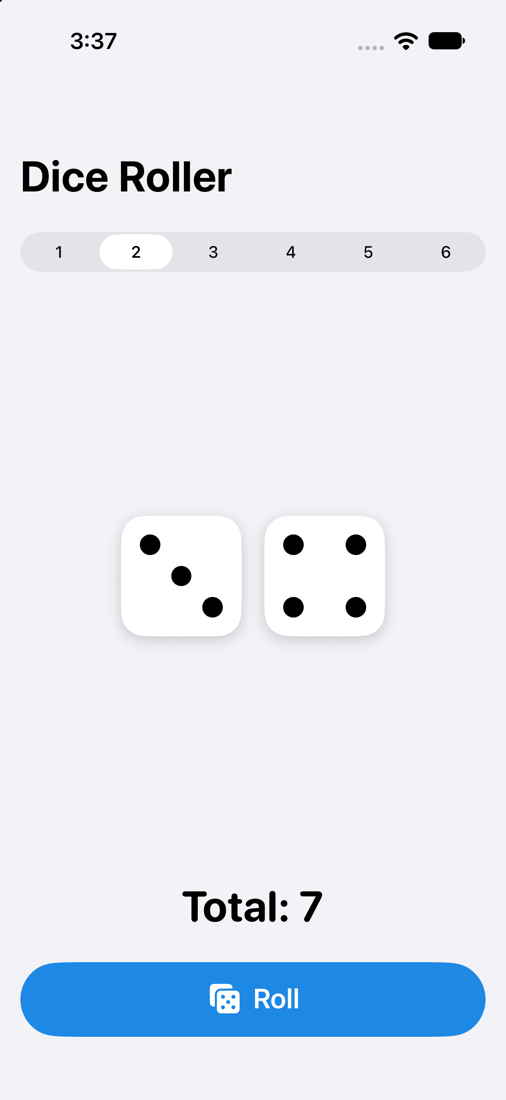
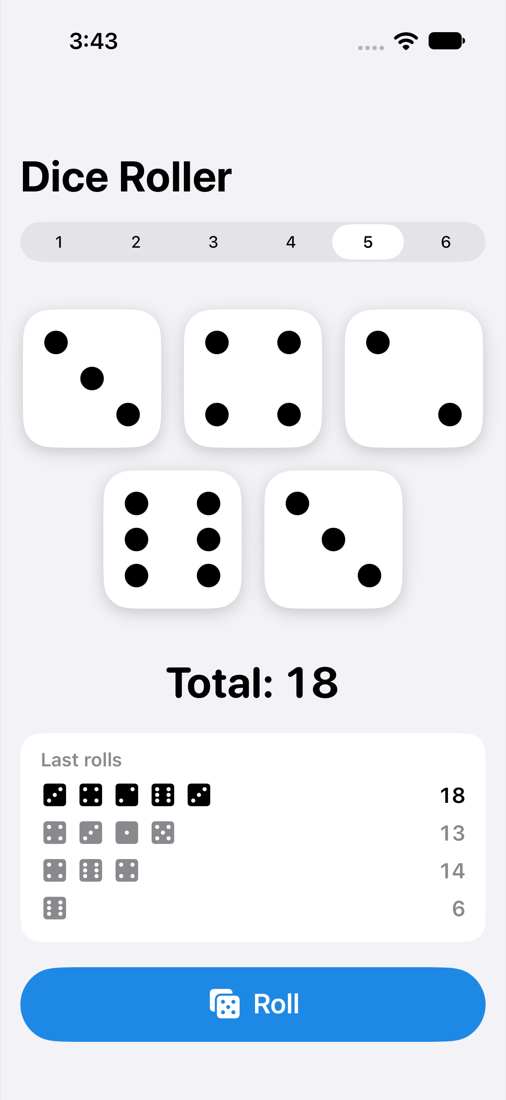
Fix the jumping Roll button and tidy the layout
- The Roll button now stays in one place at the bottom. Before, it moved up the screen each time a roll was added to the history.
- Four dice sit as two and two, and five as three over two, centered. Before, the last row hung off to the left.
- The last rolls show as small dice in a card that never changes size.
- The dice shrink to fit small screens and large text sizes.
- The app starts on random dice and now has an app icon.
- iPhone only, with a tap of feedback on each roll.

diff --git a/DiceRoller/ContentView.swift b/DiceRoller/ContentView.swift
@@ -1,6 +1,6 @@
 import SwiftUI
 
-/// One finished roll, kept for the history list.
+/// One finished roll, kept for the history card.
 struct Roll: Identifiable {
     let id = UUID()
     let dice: [Int]
@@ -8,36 +8,35 @@ struct Roll: Identifiable {
 }
 
 struct ContentView: View {
+    /// How many past rolls the history card shows. The card always keeps room for this many
+    /// rows, so nothing on the screen moves when a roll comes in.
+    private static let historyRows = 4
+
     @State private var diceCount = 2
-    @State private var dice = [3, 4]
+    @State private var dice = ContentView.randomDice(2)
     @State private var history: [Roll] = []
     @State private var spin = 0.0
-
-    /// Up to three dice per row, centered.
-    private var columns: [GridItem] {
-        Array(repeating: GridItem(.fixed(96), spacing: 18), count: min(dice.count, 3))
-    }
+    @State private var rollsMade = 0
+    @Environment(\.accessibilityReduceMotion) private var reduceMotion
 
     var body: some View {
         NavigationStack {
-            VStack(spacing: 24) {
+            VStack(spacing: 20) {
                 Picker("Number of dice", selection: $diceCount) {
                     ForEach(1...6, id: \.self) { Text("\($0)").tag($0) }
                 }
                 .pickerStyle(.segmented)
                 .onChange(of: diceCount) { _, _ in roll() }
 
-                LazyVGrid(columns: columns, spacing: 18) {
-                    ForEach(dice.indices, id: \.self) { index in
-                        DieView(value: dice[index])
-                            .rotationEffect(.degrees(spin))
-                    }
-                }
-                .frame(maxHeight: .infinity)
+                DiceBoard(dice: dice, spin: spin)
+                    .frame(maxWidth: .infinity, maxHeight: .infinity)
 
                 Text("Total: \(dice.reduce(0, +))")
-                    .font(.system(size: 34, weight: .bold, design: .rounded))
+                    .font(.system(.largeTitle, design: .rounded, weight: .bold))
+                    .monospacedDigit()
                     .contentTransition(.numericText())
+
+                HistoryCard(history: history, rows: Self.historyRows)
 
                 Button(action: roll) {
                     Label("Roll", systemImage: "dice.fill")
@@ -46,37 +45,127 @@ struct ContentView: View {
                         .padding(.vertical, 8)
                 }
                 .buttonStyle(.borderedProminent)
-
-                if !history.isEmpty {
-                    VStack(alignment: .leading, spacing: 6) {
-                        Text("Last rolls").font(.headline)
-                        ForEach(history.prefix(5)) { roll in
-                            HStack {
-                                Text(roll.dice.map(String.init).joined(separator: "  "))
-                                    .monospacedDigit()
-                                Spacer()
-                                Text("\(roll.total)").bold().monospacedDigit()
-                            }
-                            .foregroundStyle(.secondary)
-                        }
-                    }
-                    .frame(maxWidth: .infinity, alignment: .leading)
-                }
             }
-            .padding()
+            .padding(.horizontal)
+            .padding(.top, 8)
+            .padding(.bottom, 12)
             .navigationTitle("Dice Roller")
             .background(Color(.systemGroupedBackground))
+            .sensoryFeedback(.impact, trigger: rollsMade)
+        }
+        // Very large text sizes would push the Roll button off the screen.
+        .dynamicTypeSize(...DynamicTypeSize.accessibility1)
+    }
+
+    private static func randomDice(_ count: Int) -> [Int] {
+        (0..<count).map { _ in Int.random(in: 1...6) }
+    }
+
+    /// Rolls every die, gives the dice a full turn, and puts the result at the top of the history.
+    private func roll() {
+        let newDice = Self.randomDice(diceCount)
+        withAnimation(reduceMotion ? nil : .spring(duration: 0.5)) {
+            dice = newDice
+            if !reduceMotion { spin += 360 }
+        }
+        history.insert(Roll(dice: newDice), at: 0)
+        if history.count > Self.historyRows { history.removeLast() }
+        rollsMade += 1
+        AccessibilityNotification.Announcement("Rolled \(newDice.reduce(0, +))").post()
+    }
+}
+
+/// The dice, centered. One to three sit in one row, four make two rows of two,
+/// five and six put three on top. The dice shrink to fit a small screen.
+struct DiceBoard: View {
+    let dice: [Int]
+    let spin: Double
+    private let gap: CGFloat = 18
+
+    /// Positions in `dice`, split into rows.
+    private var rows: [[Int]] {
+        let all = Array(dice.indices)
+        switch all.count {
+        case ...3: return [all]
+        case 4: return [Array(all[..<2]), Array(all[2...])]
+        default: return [Array(all[..<3]), Array(all[3...])]
         }
     }
 
-    /// Rolls every die, gives the dice a full turn, and saves the result at the top of the history.
-    private func roll() {
-        withAnimation(.spring(duration: 0.5)) {
-            dice = (0..<diceCount).map { _ in Int.random(in: 1...6) }
-            spin += 360
+    var body: some View {
+        GeometryReader { box in
+            let widest = CGFloat(rows.map(\.count).max() ?? 1)
+            let fitsAcross = (box.size.width - gap * (widest - 1)) / widest
+            let fitsDown = (box.size.height - gap * CGFloat(rows.count - 1)) / CGFloat(rows.count)
+            let side = max(36, min(110, fitsAcross, fitsDown))
+            VStack(spacing: gap) {
+                ForEach(rows.indices, id: \.self) { row in
+                    HStack(spacing: gap) {
+                        ForEach(rows[row], id: \.self) { index in
+                            DieView(value: dice[index])
+                                .frame(width: side, height: side)
+                                .rotationEffect(.degrees(spin))
+                        }
+                    }
+                }
+            }
+            .frame(maxWidth: .infinity, maxHeight: .infinity)
         }
-        history.insert(Roll(dice: dice), at: 0)
-        if history.count > 20 { history.removeLast() }
+    }
+}
+
+/// The last few rolls, newest on top. Empty rows keep their space so the card never changes size.
+struct HistoryCard: View {
+    let history: [Roll]
+    let rows: Int
+    @ScaledMetric private var rowHeight: CGFloat = 30
+
+    var body: some View {
+        VStack(alignment: .leading, spacing: 0) {
+            Text("Last rolls")
+                .font(.subheadline.weight(.semibold))
+                .foregroundStyle(.secondary)
+                .padding(.bottom, 4)
+            ForEach(0..<rows, id: \.self) { index in
+                Group {
+                    if index < history.count {
+                        HistoryRow(roll: history[index], isNewest: index == 0)
+                    } else if index == 0 {
+                        Text("No rolls yet. Tap Roll to start.")
+                            .font(.subheadline)
+                            .foregroundStyle(.secondary)
+                    } else {
+                        Color.clear
+                    }
+                }
+                .frame(maxWidth: .infinity, minHeight: rowHeight, maxHeight: rowHeight, alignment: .leading)
+            }
+        }
+        .padding(.horizontal, 16)
+        .padding(.vertical, 12)
+        .background(Color(.secondarySystemGroupedBackground), in: RoundedRectangle(cornerRadius: 16, style: .continuous))
+    }
+}
+
+/// One past roll: a small picture of each die, then the total.
+struct HistoryRow: View {
+    let roll: Roll
+    let isNewest: Bool
+
+    var body: some View {
+        HStack(spacing: 6) {
+            ForEach(roll.dice.indices, id: \.self) { index in
+                Image(systemName: "die.face.\(roll.dice[index]).fill")
+                    .font(.title3)
+            }
+            Spacer()
+            Text("\(roll.total)")
+                .font(.body.weight(.semibold))
+                .monospacedDigit()
+        }
+        .foregroundStyle(isNewest ? .primary : .secondary)
+        .accessibilityElement(children: .ignore)
+        .accessibilityLabel("Rolled \(roll.dice.map(String.init).joined(separator: ", ")), total \(roll.total)")
     }
 }
 

diff --git a/README.md b/README.md
@@ -1,8 +1,8 @@
 # Dice Roller
 
-A small iPhone app made with SwiftUI. Pick one to six dice, tap Roll, and see the total. The last five rolls are listed at the bottom.
+A small iPhone app made with SwiftUI. Pick one to six dice, tap Roll, and see the total. The last four rolls are kept in a card above the Roll button.
 
-<img src="docs/screenshot.png" width="260" alt="Dice Roller showing two dice and a total of 7">
+<img src="docs/screenshot.png" width="260" alt="Dice Roller showing five dice, the total and the last four rolls">
 
 ## Run it
 
@@ -13,5 +13,5 @@ A small iPhone app made with SwiftUI. Pick one to six dice, tap Roll, and see th
 ## What is inside
 
 - `DiceRoller/DiceRollerApp.swift` starts the app.
-- `DiceRoller/ContentView.swift` is the screen: the dice picker, the Roll button, the total and the history.
+- `DiceRoller/ContentView.swift` is the screen: the dice picker, the dice, the total, the last rolls and the Roll button.
 - `DiceRoller/DieView.swift` draws one die with its dots.
